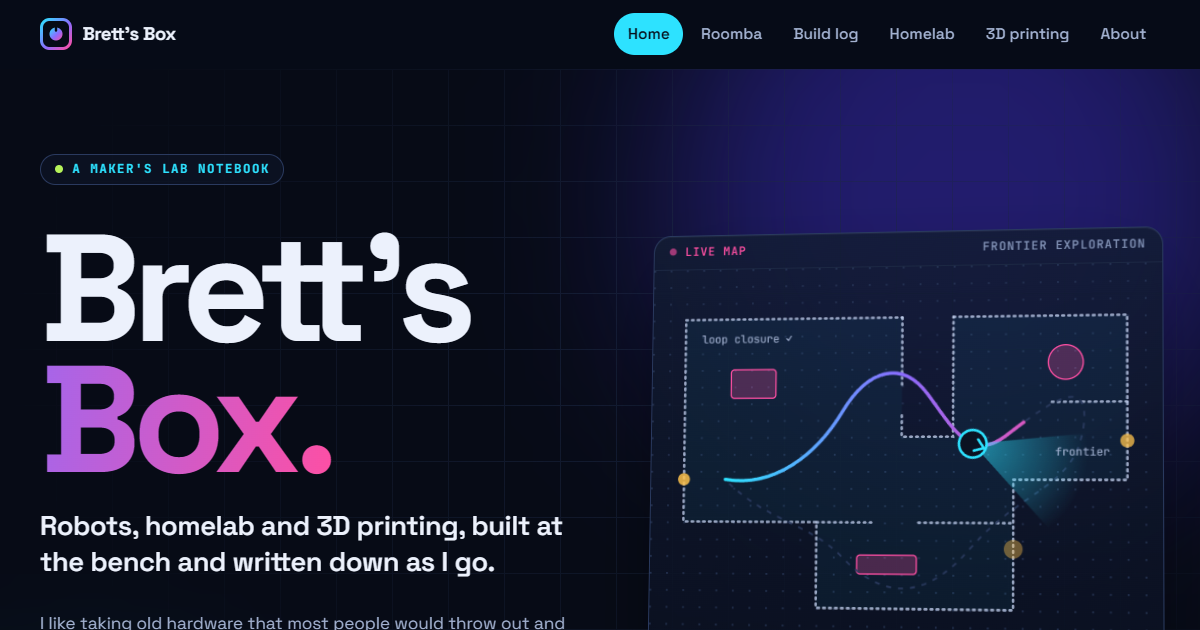
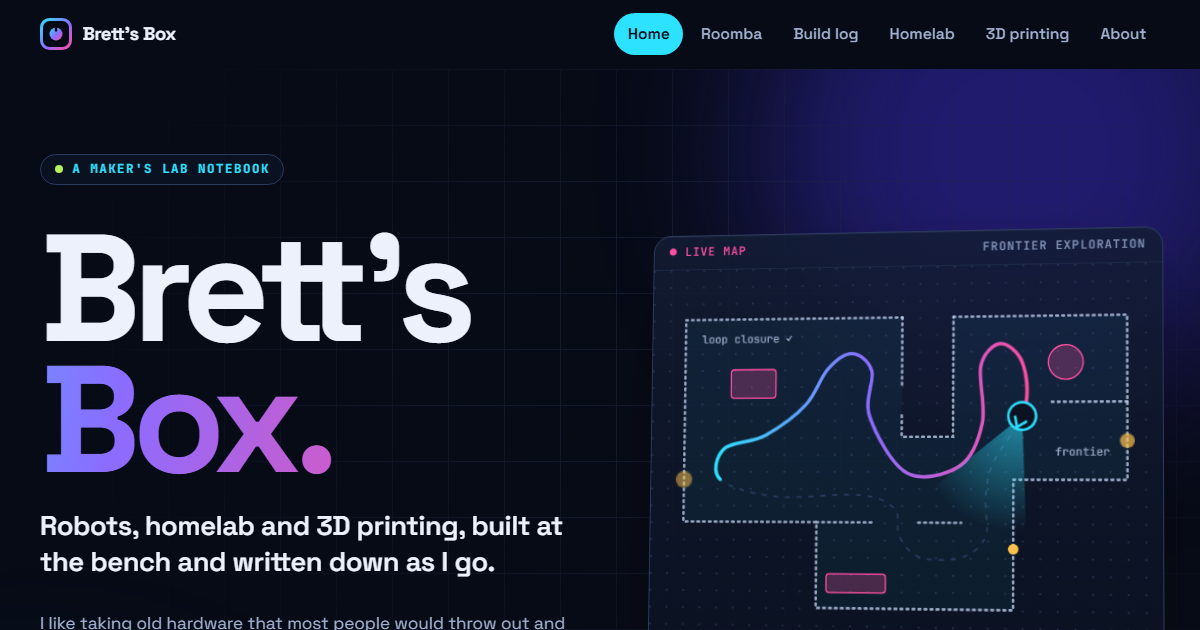
Lab home map: robot route no longer drives through walls
Redraw the animated robot's route as one smooth loop that stays inside the rooms and only passes through doorways (min ~5 units clearance from walls and furniture). Adds a doorway between the corridor and the bottom room, moves the bottom room's obstacle out of the way, and keeps the robot's speed the same (18 s for the longer loop).

The gradient trail now runs in sync with the robot instead of drawing ahead of it, then fades as the loop closes. Regenerated preview-lab.webp and og-lab.png, which showed the old route.

diff --git a/public/lab/index.html b/public/lab/index.html
@@ -86,28 +86,28 @@
           <g class="map__walls">
             <path d="M40 60 H300 M360 60 H560 V250 H430 V400 H200 V300 H40 V60"/>
             <path d="M300 60 V140 M300 175 V200 H360 V60"/>
-            <path d="M200 300 H270 M320 300 H430"/>
+            <path d="M200 300 H270 M320 300 H370"/>
             <path d="M560 160 H470"/>
           </g>
           <g class="map__obstacles">
             <rect x="96" y="120" width="54" height="34" rx="4"/>
             <rect x="470" y="94" width="40" height="40" rx="20"/>
-            <rect x="248" y="338" width="70" height="22" rx="4"/>
+            <rect x="212" y="360" width="70" height="22" rx="4"/>
           </g>
           <g class="map__frontiers">
             <circle cx="560" cy="205" r="6"/>
             <circle cx="430" cy="330" r="6"/>
             <circle cx="40" cy="250" r="6"/>
           </g>
-          <path class="map__plan" id="robot-path" d="M90 250 C 150 260, 200 220, 230 170 S 300 110, 330 150 S 380 230, 420 200 S 520 120, 510 190 S 440 260, 380 330 S 270 380, 230 340 S 140 300, 90 250 Z"/>
-          <path class="map__trail" d="M90 250 C 150 260, 200 220, 230 170 S 300 110, 330 150 S 380 230, 420 200 S 520 120, 510 190 S 440 260, 380 330 S 270 380, 230 340 S 140 300, 90 250 Z" pathLength="1"/>
+          <path class="map__plan" id="robot-path" d="M84 250 C 74 241, 79 223, 88 214 C 97 205, 122 207, 138 198 C 154 189, 174 175, 186 162 C 198 149, 203 130, 212 120 C 221 110, 231 102, 240 102 C 249 102, 260 110, 264 122 C 268 134, 255 156, 262 176 C 269 196, 288 232, 306 242 C 324 252, 353 244, 368 234 C 383 224, 390 203, 394 184 C 398 165, 389 133, 392 118 C 395 103, 406 93, 414 92 C 422 91, 435 101, 440 114 C 445 127, 448 149, 443 168 C 438 187, 416 211, 408 228 C 400 245, 400 253, 398 268 C 396 283, 403 304, 398 316 C 393 328, 383 336, 370 340 C 357 344, 334 344, 322 340 C 310 336, 303 325, 298 316 C 293 307, 300 292, 292 284 C 284 276, 274 270, 250 268 C 226 266, 178 273, 150 270 C 122 267, 94 259, 84 250 Z"/>
+          <path class="map__trail" d="M84 250 C 74 241, 79 223, 88 214 C 97 205, 122 207, 138 198 C 154 189, 174 175, 186 162 C 198 149, 203 130, 212 120 C 221 110, 231 102, 240 102 C 249 102, 260 110, 264 122 C 268 134, 255 156, 262 176 C 269 196, 288 232, 306 242 C 324 252, 353 244, 368 234 C 383 224, 390 203, 394 184 C 398 165, 389 133, 392 118 C 395 103, 406 93, 414 92 C 422 91, 435 101, 440 114 C 445 127, 448 149, 443 168 C 438 187, 416 211, 408 228 C 400 245, 400 253, 398 268 C 396 283, 403 304, 398 316 C 393 328, 383 336, 370 340 C 357 344, 334 344, 322 340 C 310 336, 303 325, 298 316 C 293 307, 300 292, 292 284 C 284 276, 274 270, 250 268 C 226 266, 178 273, 150 270 C 122 267, 94 259, 84 250 Z" pathLength="1"/>
           <g class="map__robot">
             <path d="M0 0 L120 -60 A 134 134 0 0 1 120 60 Z" fill="url(#fov)" class="map__fov"/>
             <circle r="16" class="map__body"/>
             <path d="M4 -7 L14 0 L4 7" class="map__heading"/>
-            <animateMotion dur="16s" repeatCount="indefinite" rotate="auto"><mpath href="#robot-path"/></animateMotion>
+            <animateMotion dur="18s" repeatCount="indefinite" rotate="auto"><mpath href="#robot-path"/></animateMotion>
           </g>
-          <g class="map__static-robot" transform="translate(330 150) rotate(40)">
+          <g class="map__static-robot" transform="translate(393 187) rotate(-77)">
             <path d="M0 0 L120 -60 A 134 134 0 0 1 120 60 Z" fill="url(#fov)"/>
             <circle r="16" class="map__body"/>
           </g>

diff --git a/site/themes/lab/templates/home.html b/site/themes/lab/templates/home.html
@@ -32,28 +32,28 @@
           <g class="map__walls">
             <path d="M40 60 H300 M360 60 H560 V250 H430 V400 H200 V300 H40 V60"/>
             <path d="M300 60 V140 M300 175 V200 H360 V60"/>
-            <path d="M200 300 H270 M320 300 H430"/>
+            <path d="M200 300 H270 M320 300 H370"/>
             <path d="M560 160 H470"/>
           </g>
           <g class="map__obstacles">
             <rect x="96" y="120" width="54" height="34" rx="4"/>
             <rect x="470" y="94" width="40" height="40" rx="20"/>
-            <rect x="248" y="338" width="70" height="22" rx="4"/>
+            <rect x="212" y="360" width="70" height="22" rx="4"/>
           </g>
           <g class="map__frontiers">
             <circle cx="560" cy="205" r="6"/>
             <circle cx="430" cy="330" r="6"/>
             <circle cx="40" cy="250" r="6"/>
           </g>
-          <path class="map__plan" id="robot-path" d="M90 250 C 150 260, 200 220, 230 170 S 300 110, 330 150 S 380 230, 420 200 S 520 120, 510 190 S 440 260, 380 330 S 270 380, 230 340 S 140 300, 90 250 Z"/>
-          <path class="map__trail" d="M90 250 C 150 260, 200 220, 230 170 S 300 110, 330 150 S 380 230, 420 200 S 520 120, 510 190 S 440 260, 380 330 S 270 380, 230 340 S 140 300, 90 250 Z" pathLength="1"/>
+          <path class="map__plan" id="robot-path" d="M84 250 C 74 241, 79 223, 88 214 C 97 205, 122 207, 138 198 C 154 189, 174 175, 186 162 C 198 149, 203 130, 212 120 C 221 110, 231 102, 240 102 C 249 102, 260 110, 264 122 C 268 134, 255 156, 262 176 C 269 196, 288 232, 306 242 C 324 252, 353 244, 368 234 C 383 224, 390 203, 394 184 C 398 165, 389 133, 392 118 C 395 103, 406 93, 414 92 C 422 91, 435 101, 440 114 C 445 127, 448 149, 443 168 C 438 187, 416 211, 408 228 C 400 245, 400 253, 398 268 C 396 283, 403 304, 398 316 C 393 328, 383 336, 370 340 C 357 344, 334 344, 322 340 C 310 336, 303 325, 298 316 C 293 307, 300 292, 292 284 C 284 276, 274 270, 250 268 C 226 266, 178 273, 150 270 C 122 267, 94 259, 84 250 Z"/>
+          <path class="map__trail" d="M84 250 C 74 241, 79 223, 88 214 C 97 205, 122 207, 138 198 C 154 189, 174 175, 186 162 C 198 149, 203 130, 212 120 C 221 110, 231 102, 240 102 C 249 102, 260 110, 264 122 C 268 134, 255 156, 262 176 C 269 196, 288 232, 306 242 C 324 252, 353 244, 368 234 C 383 224, 390 203, 394 184 C 398 165, 389 133, 392 118 C 395 103, 406 93, 414 92 C 422 91, 435 101, 440 114 C 445 127, 448 149, 443 168 C 438 187, 416 211, 408 228 C 400 245, 400 253, 398 268 C 396 283, 403 304, 398 316 C 393 328, 383 336, 370 340 C 357 344, 334 344, 322 340 C 310 336, 303 325, 298 316 C 293 307, 300 292, 292 284 C 284 276, 274 270, 250 268 C 226 266, 178 273, 150 270 C 122 267, 94 259, 84 250 Z" pathLength="1"/>
           <g class="map__robot">
             <path d="M0 0 L120 -60 A 134 134 0 0 1 120 60 Z" fill="url(#fov)" class="map__fov"/>
             <circle r="16" class="map__body"/>
             <path d="M4 -7 L14 0 L4 7" class="map__heading"/>
-            <animateMotion dur="16s" repeatCount="indefinite" rotate="auto"><mpath href="#robot-path"/></animateMotion>
+            <animateMotion dur="18s" repeatCount="indefinite" rotate="auto"><mpath href="#robot-path"/></animateMotion>
           </g>
-          <g class="map__static-robot" transform="translate(330 150) rotate(40)">
+          <g class="map__static-robot" transform="translate(393 187) rotate(-77)">
             <path d="M0 0 L120 -60 A 134 134 0 0 1 120 60 Z" fill="url(#fov)"/>
             <circle r="16" class="map__body"/>
           </g>

diff --git a/public/lab/style.css b/public/lab/style.css
@@ -228,8 +228,9 @@ code, pre, kbd { font-family: var(--mono); font-size: 0.88em; }
 .map__frontiers circle:nth-child(3) { animation-delay: 1.2s; }
 @keyframes pulse { 50% { transform: scale(1.8); opacity: 0.4; } }
 .map__plan { fill: none; stroke: var(--line-2); stroke-width: 2; stroke-dasharray: 6 8; }
-.map__trail { fill: none; stroke: url(#trail); stroke-width: 4; stroke-linecap: round; stroke-dasharray: 1; stroke-dashoffset: 1; animation: trail 16s linear infinite; }
-@keyframes trail { 0% { stroke-dashoffset: 1; } 85% { stroke-dashoffset: 0; opacity: 1; } 100% { stroke-dashoffset: 0; opacity: 0; } }
+.map__trail { fill: none; stroke: url(#trail); stroke-width: 4; stroke-linecap: round; stroke-dasharray: 1; stroke-dashoffset: 1; animation: trail 18s linear infinite; }
+/* Same duration as the robot's animateMotion so the trail ends at the robot; it fades as the loop closes. */
+@keyframes trail { 0% { stroke-dashoffset: 1; } 88% { opacity: 1; } 100% { stroke-dashoffset: 0; opacity: 0; } }
 .map__body { fill: #0b1222; stroke: var(--cyan); stroke-width: 3; }
 .map__heading { fill: none; stroke: var(--cyan); stroke-width: 3; stroke-linecap: round; stroke-linejoin: round; }
 .map__static-robot { display: none; }

diff --git a/site/themes/lab/static/style.css b/site/themes/lab/static/style.css
@@ -228,8 +228,9 @@ code, pre, kbd { font-family: var(--mono); font-size: 0.88em; }
 .map__frontiers circle:nth-child(3) { animation-delay: 1.2s; }
 @keyframes pulse { 50% { transform: scale(1.8); opacity: 0.4; } }
 .map__plan { fill: none; stroke: var(--line-2); stroke-width: 2; stroke-dasharray: 6 8; }
-.map__trail { fill: none; stroke: url(#trail); stroke-width: 4; stroke-linecap: round; stroke-dasharray: 1; stroke-dashoffset: 1; animation: trail 16s linear infinite; }
-@keyframes trail { 0% { stroke-dashoffset: 1; } 85% { stroke-dashoffset: 0; opacity: 1; } 100% { stroke-dashoffset: 0; opacity: 0; } }
+.map__trail { fill: none; stroke: url(#trail); stroke-width: 4; stroke-linecap: round; stroke-dasharray: 1; stroke-dashoffset: 1; animation: trail 18s linear infinite; }
+/* Same duration as the robot's animateMotion so the trail ends at the robot; it fades as the loop closes. */
+@keyframes trail { 0% { stroke-dashoffset: 1; } 88% { opacity: 1; } 100% { stroke-dashoffset: 0; opacity: 0; } }
 .map__body { fill: #0b1222; stroke: var(--cyan); stroke-width: 3; }
 .map__heading { fill: none; stroke: var(--cyan); stroke-width: 3; stroke-linecap: round; stroke-linejoin: round; }
 .map__static-robot { display: none; }
